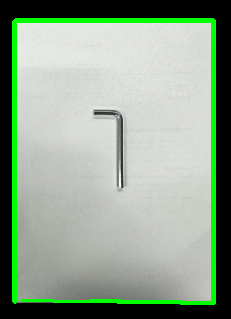
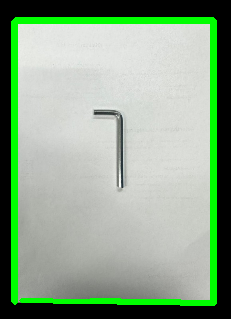
combine hough lines & mode center vs a4 added

Changed region(s): [[0.0303, 0.0282, 0.9394, 0.9592]]

diff --git a/main.py b/main.py
@@ -22,54 +22,50 @@ def preprocess_image(image, bin_thresh):
     dilated = cv2.dilate(edges, kernel, iterations=1)
     return binary, closed, edges, dilated
 
-# ----------------- 3a. Hough für Inbusschlüssel Linien -----------------
-def apply_hough_center_lines(image, processed_image, pixels_per_mm):
+# ----------------- 3a. Hough-Transformation -----------------
+def apply_hough_lines(image, processed_image, pixels_per_mm, mode="center"):
     img = image.copy()
-    lines = cv2.HoughLinesP(processed_image, rho=1, theta=np.pi/180, threshold=15,
-                            minLineLength=10, maxLineGap=5) # Hough-Linien
+    if mode == "center":
+        threshold, min_line_length, max_line_gap = 15, 10, 5
+    elif mode == "a4":
+        threshold, min_line_length, max_line_gap = 50, 100, 20
+    else:
+        raise ValueError("Unbekannter Modus für apply_hough_lines")
+
+    lines = cv2.HoughLinesP(processed_image, rho=1, theta=np.pi/180,
+                            threshold=threshold, minLineLength=min_line_length, maxLineGap=max_line_gap)
     if lines is None:
-        return img
+        return None, img
+
     h, w = img.shape[:2]
     cx, cy = w // 2, h // 2
     selected_lines = []
     for x1, y1, x2, y2 in lines.reshape(-1, 4):
-        # Linien im Zentrum hervorheben
-        mid_x, mid_y = (x1 + x2) // 2, (y1 + y2) // 2
-        if abs(mid_x - cx) < 0.25 * w and abs(mid_y - cy) < 0.25 * h:
-            length = np.hypot(x2 - x1, y2 - y1) # Die Euklidische Distanz berechnen
-            selected_lines.append((length, (x1, y1, x2, y2)))
-    if not selected_lines:
-        return img
-    selected_lines.sort(key=lambda x: x[0], reverse=True) # Absteigend sortieren
-    longest = selected_lines[0] # längste Linie
-    shortest = selected_lines[4] if len(selected_lines) > 4 else selected_lines[-1] # kürzeste
-    # Umrechnung in mm
-    pixels_per_mm = calculate_pixels_per_mm(img.shape)
-    # Annotation im Image
-    for length, (x1, y1, x2, y2) in [longest, shortest]:
-        length_mm = px_to_mm(length, pixels_per_mm)
-        draw_line_with_text(img, x1, y1, x2, y2, length_mm)
-    return img
-
-# ----------------- 3b. Hough für A4-Blatt Linien -----------------
-def apply_hough_a4_lines(image, processed_image):
-    img = image.copy()
-    lines = cv2.HoughLinesP(processed_image, rho=1, theta=np.pi/180, threshold=50,
-                            minLineLength=100, maxLineGap=20)  # stärkere Filter für A4 Konturen
-    if lines is None:
-        return None, img
-    h, w = img.shape[:2]
-    selected_lines = []
-    for x1, y1, x2, y2 in lines.reshape(-1, 4):
-        # Lange Linien filtern
         length = np.hypot(x2 - x1, y2 - y1)
-        if length > 0.5 * min(w, h):  # nur sehr lange Linien behalten
-            selected_lines.append((length, (x1, y1, x2, y2)))
+        if mode == "center":
+            mid_x = (x1 + x2) // 2
+            mid_y = (y1 + y2) // 2
+            if abs(mid_x - cx) < 0.25 * w and abs(mid_y - cy) < 0.25 * h:
+                selected_lines.append((length, (x1, y1, x2, y2)))
+        elif mode == "a4":
+            if length > 0.5 * min(w, h):
+                selected_lines.append((length, (x1, y1, x2, y2)))
+
     if not selected_lines:
         return None, img
-    # Linien ins Bild zeichnen
-    for length, (x1, y1, x2, y2) in selected_lines:
-        cv2.line(img, (x1, y1), (x2, y2), (0, 255, 0), 2)
+
+    if mode == "center":
+        selected_lines.sort(key=lambda x: x[0], reverse=True)
+        longest = selected_lines[0]
+        shortest = selected_lines[4] if len(selected_lines) > 4 else selected_lines[-1]
+        for length, (x1, y1, x2, y2) in [longest, shortest]:
+            cv2.line(img, (x1, y1), (x2, y2), (0, 255, 0), 3)
+            if pixels_per_mm:
+                length_mm = px_to_mm(length, pixels_per_mm)
+                draw_line_with_text(img, x1, y1, x2, y2, length_mm)
+    elif mode == "a4":
+        for length, (x1, y1, x2, y2) in selected_lines:
+            cv2.line(img, (x1, y1), (x2, y2), (0, 255, 0), 3)
     return selected_lines, img
 
 # ----------------- 4. Längenmessung in mm -----------------
@@ -82,8 +78,7 @@ def calculate_pixels_per_mm(image_shape, a4_width_mm=210, a4_height_mm=297):
 def px_to_mm(pixel_length, pixels_per_mm):
     return pixel_length / pixels_per_mm
 
-def draw_line_with_text(img, x1, y1, x2, y2, length_mm, color=(0, 255, 0)):
-    cv2.line(img, (x1, y1), (x2, y2), color, 3)
+def draw_line_with_text(img, x1, y1, x2, y2, length_mm):
     mid_x = (x1 + x2) // 2
     mid_y = (y1 + y2) // 2
     cv2.putText(img,
@@ -117,23 +112,20 @@ def main():
     img = load_and_resize(image_path="images/inpus-4.jpg")
     binary, closed, edges, dilated = preprocess_image(img, bin_thresh=100)
 
-    # A4 Linien erkennen
-    a4_lines, a4_img = apply_hough_a4_lines(img, dilated)
-    if a4_lines:
-        pixels_per_mm = calculate_pixels_per_mm(img.shape)
-        # Inbus Linien erkennen (nur Zentrum)
-        hough_img = apply_hough_center_lines(img, dilated, pixels_per_mm)
+    pixels_per_mm = calculate_pixels_per_mm(img.shape)
+    a4_lines, a4_img = apply_hough_lines(img, dilated, pixels_per_mm=pixels_per_mm, mode="a4")
+    center_lines, hough_img = apply_hough_lines(img, dilated, pixels_per_mm=pixels_per_mm, mode="center")
 
-        steps = {
-            "Original_resized": img,
-            "Binary": binary,
-            "Closing": closed,
-            "Canny": edges,
-            "Dilated": dilated,
-            "A4_detected_Hough": a4_img,
-            "Hough_Lines_Center": hough_img
-        }
-        save_steps(steps)
+    steps = {
+        "Original_resized": img,
+        "Binary": binary,
+        "Closing": closed,
+        "Canny": edges,
+        "Dilated": dilated,
+        "A4_detected_Hough": a4_img,
+        "Hough_Lines_Center": hough_img
+    }
+    save_steps(steps)
 
 if __name__ == '__main__':
     main()
